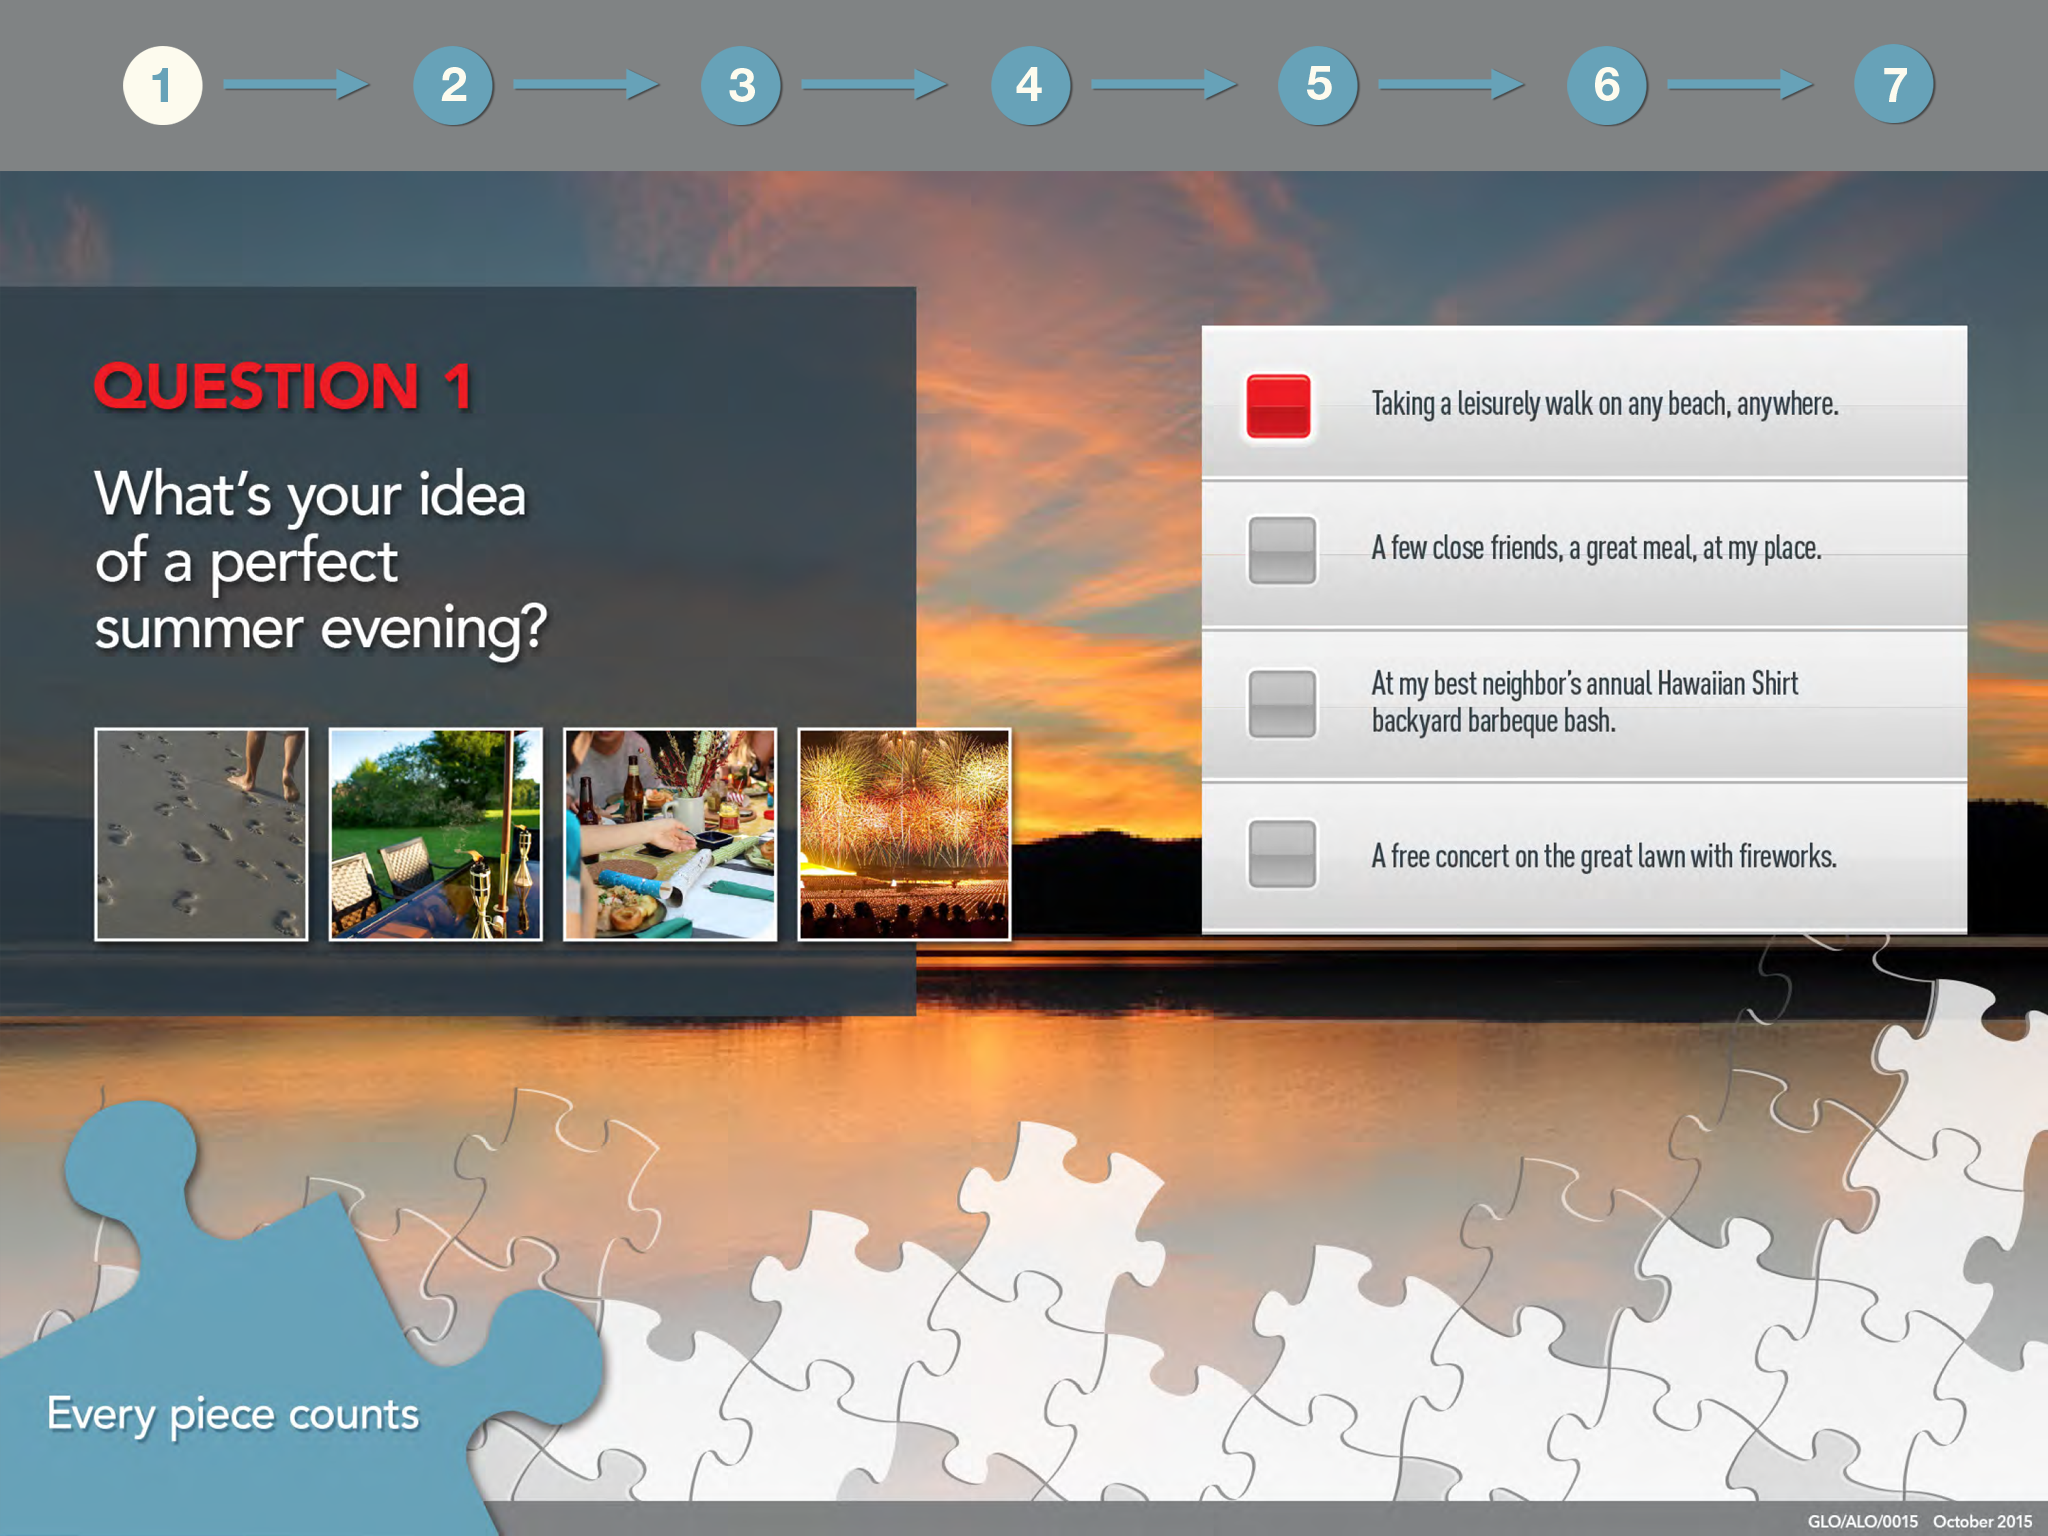
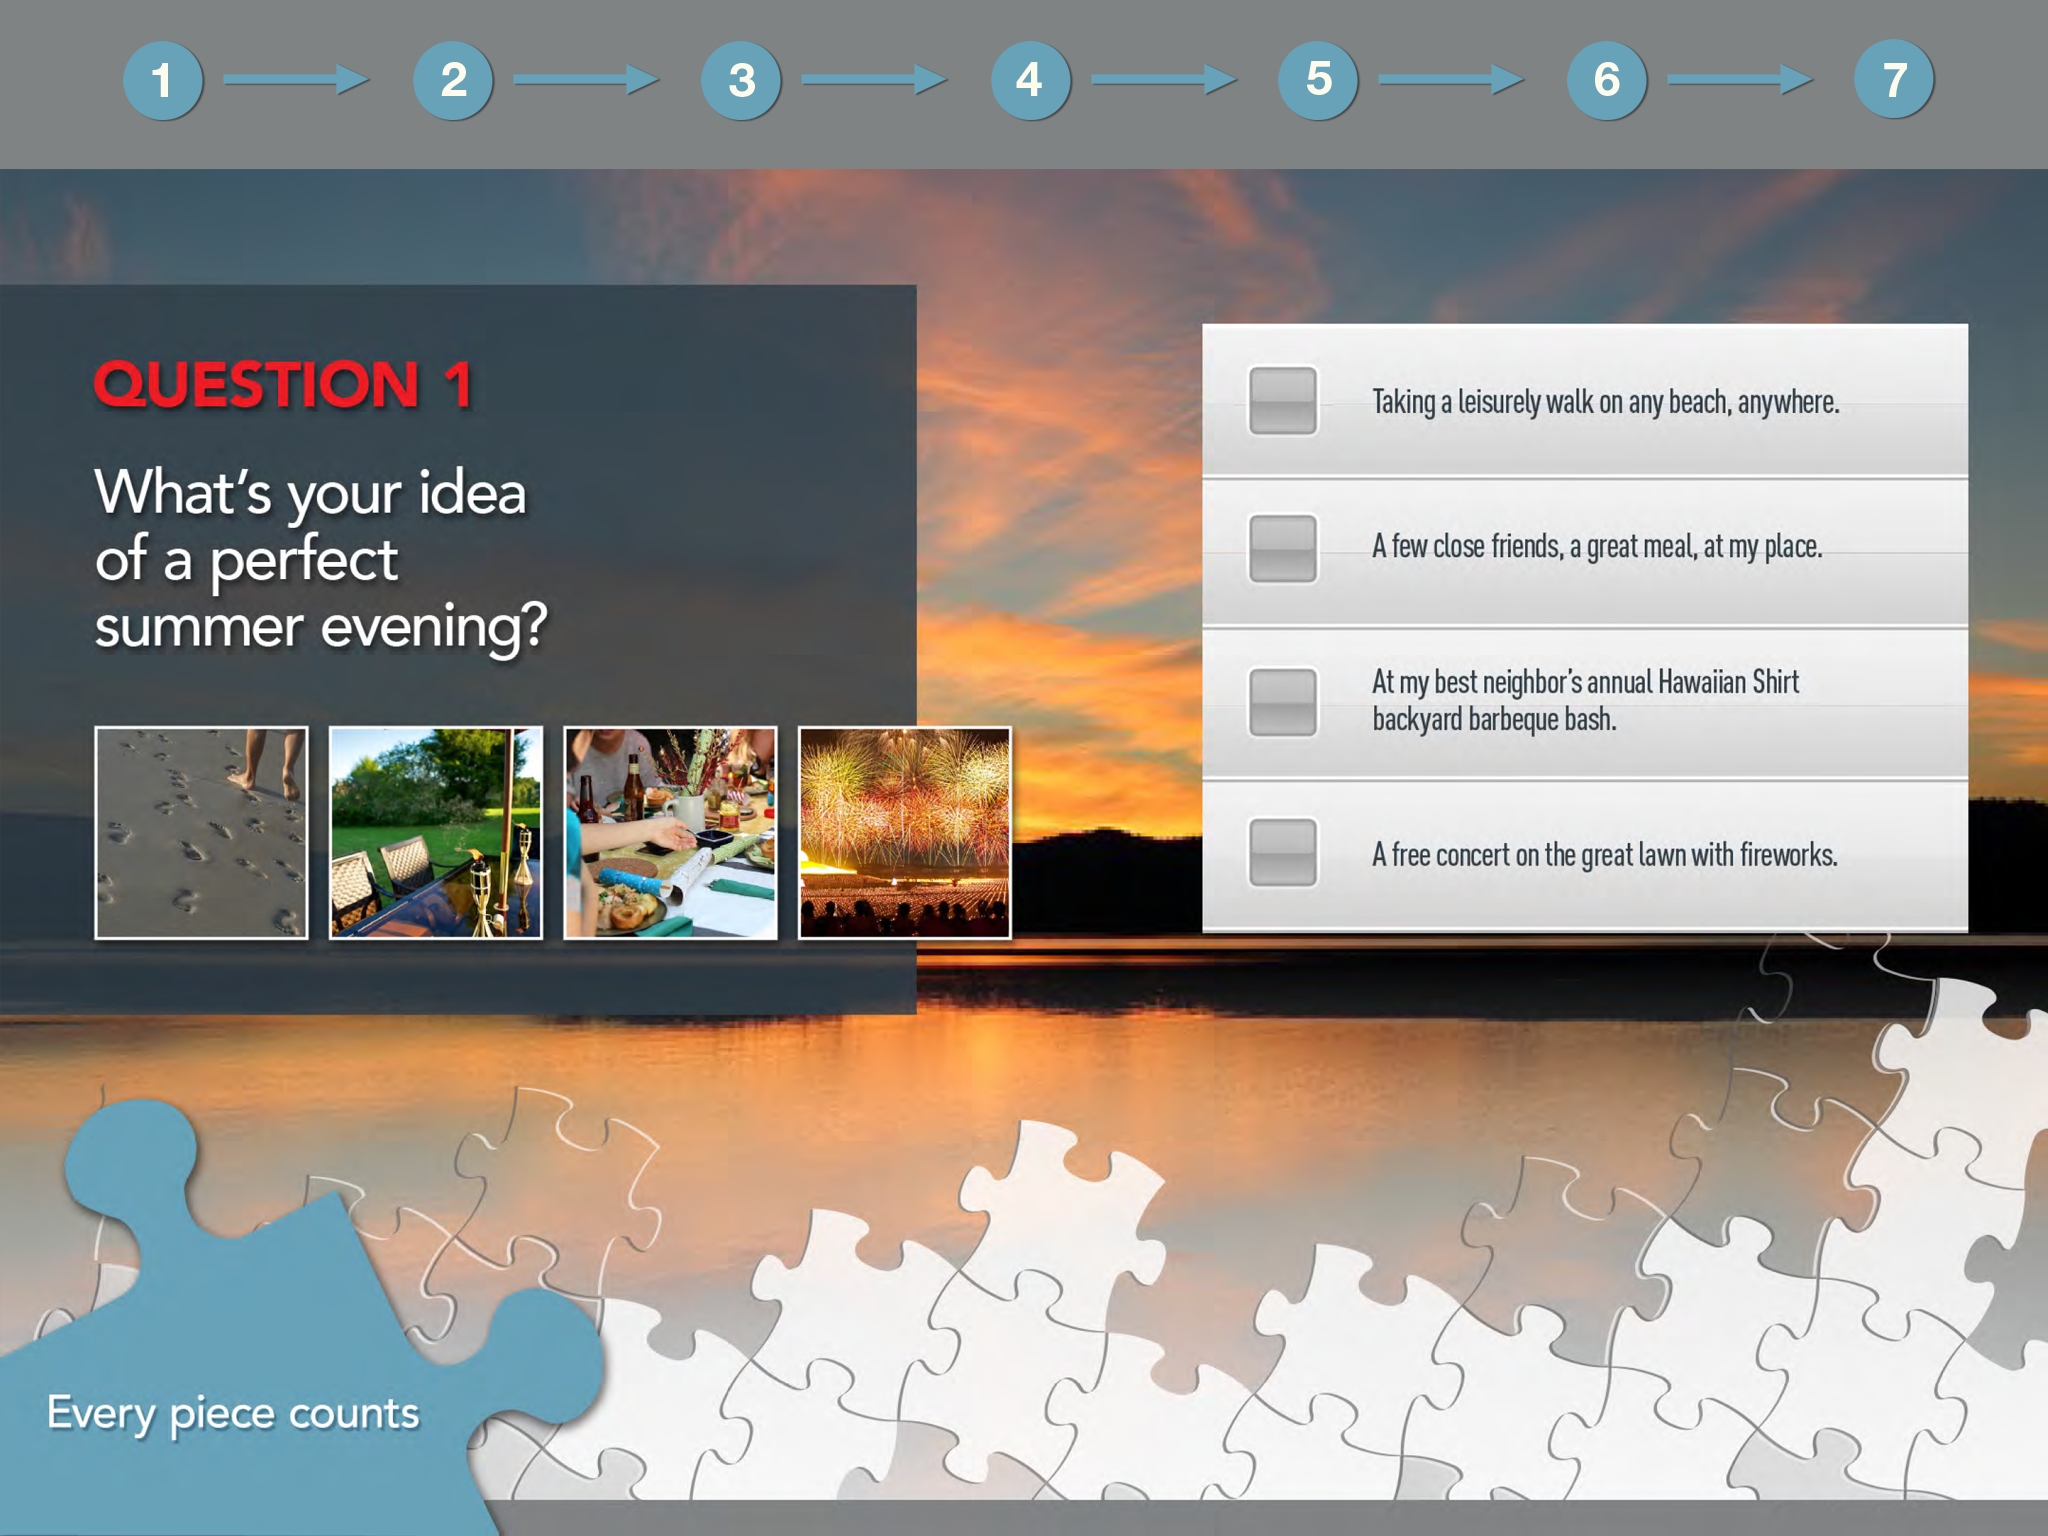
Komit

diff --git a/index.html b/index.html
@@ -51,20 +51,42 @@ user-drag: none;
   width: 100%;
   height: 100%;
 }
+
 .fullscreen {min-height: 100%;position:relative;}
 
-.slika0 {
+.slika1 {
 	display:none;
 }
 
 .zapocni {
 position:absolute;
-left:1720px;
-top:1040px;
-width:300px;
-height:300px;
+left:860px;
+top:520px;
+width:150px;
+height:150px;
 background-color:#ffffff;
 }
+
+.pitanje {
+height:77.5px;
+width:380px;
+left:601.5px;
+position:absolute;
+}
+
+.pitanje:hover, .pitanje:active {
+	background:url('crveni.png') no-repeat 0 0;
+	background-size: 79.5px 77.5px;
+    background-repeat: no-repeat;
+	display:block;
+}
+
+.pit1 {top:162.5px;}
+.pit2 {top:239px;}
+.pit3 {top:314.5px;}
+.pit4 {top:390px;}
+.pit5 {top:472.5px;}
+.pit6 {top:550px;}
 
 </style>
 
@@ -72,12 +94,17 @@ background-color:#ffffff;
 </head>
  
 <body>
+<!-- <a href="verge/index.html">Verge</a> -->
 <div class="fullscreen slika1" data-id="0">
 <img src="splash.png" class="img red0" alt="">
-<div class="zapocni"><a href="verge/index.html">Verge</a></div>
+<div class="zapocni"></div>
 </div>
 <div class="fullscreen slika0" data-id="0">
 <img src="pitanje1.png" class="img red1" alt="">
+<a class="pitanje pit1" data-pitanje="1" data-odgovor="1"></a>
+<a class="pitanje pit2" data-pitanje="2" data-odgovor="2"></a>
+<a class="pitanje pit3" data-pitanje="3" data-odgovor="3"></a>
+<a class="pitanje pit4" data-pitanje="4" data-odgovor="4"></a>
 </div>
 
 
@@ -90,13 +117,12 @@ var trenutno=0;
 $(function() {
     FastClick.attach(document.body);
 	
-	$('.img').click(function(){
-	$('.zapocni').css({top:"100px", left:"100px"});
-		//$(this).parent().hide(0,function(){
-			//trenutno++;
-			//$('.red'+trenutno).parent().show();
+	$('.zapocni').click(function(){
+		$(this).parent().hide(0,function(){
+			trenutno++;
+			$('.red'+trenutno).parent().show();
 			
-		//});
+		});
 	});
 });
 </script>
